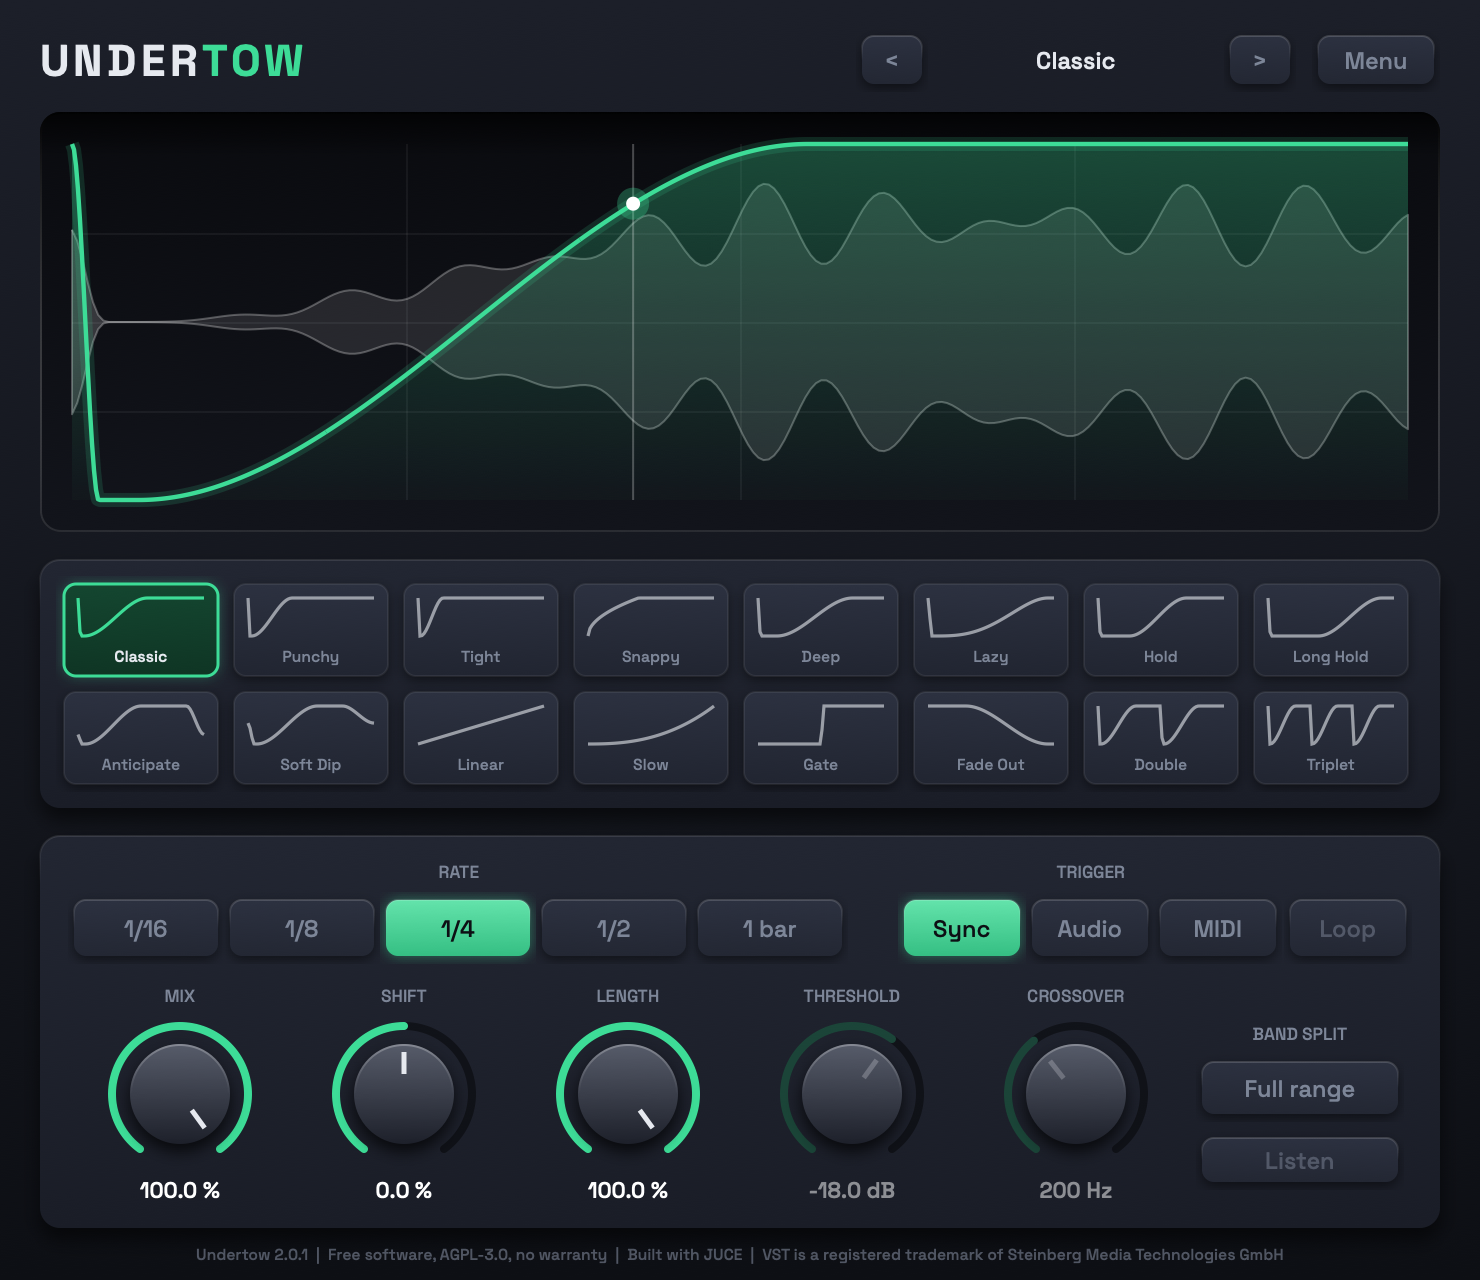
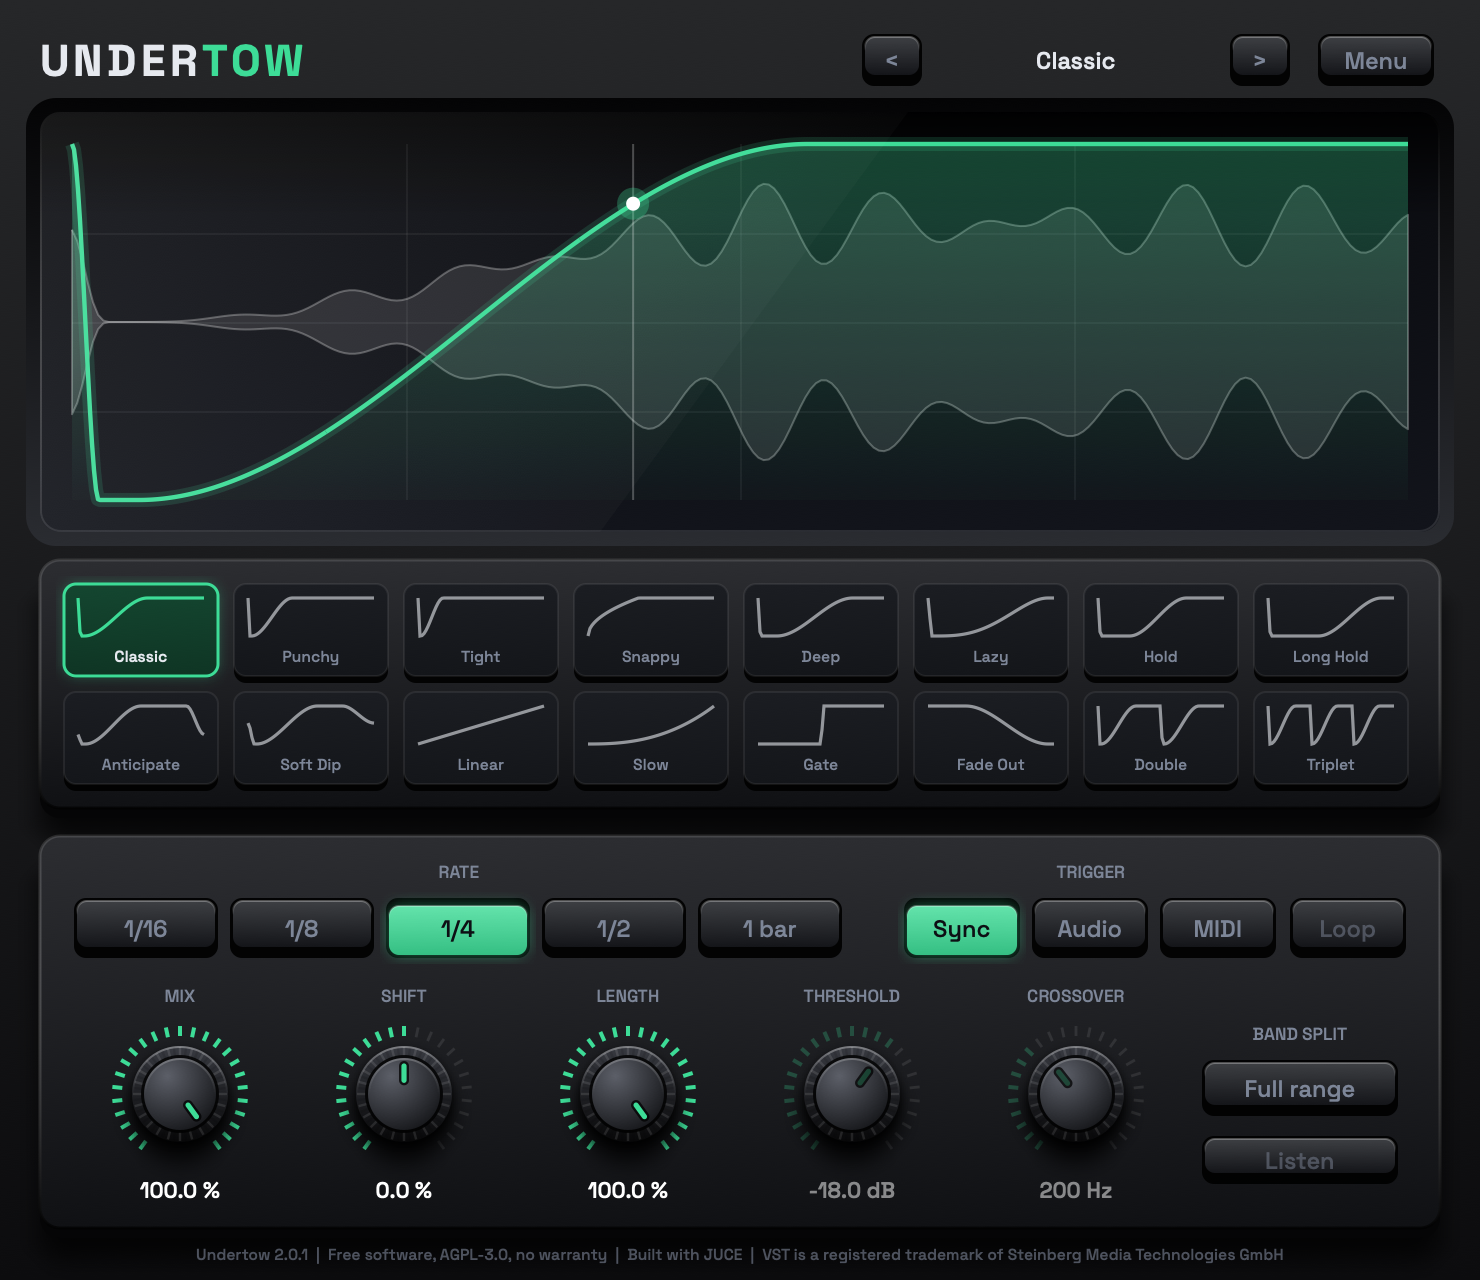
Undertow 2.0.1: realistic look, wordmark, smooth waveform, Windows uninstaller

diff --git a/Source/PluginProcessor.cpp b/Source/PluginProcessor.cpp
@@ -4,8 +4,9 @@
 
 namespace
 {
-const juce::Colour bgTop { 0xff1c1f29 }, bgBottom { 0xff0d0f14 }, card { 0xff222632 }, cardLow { 0xff1a1d27 },
-    raised { 0xff2c3140 }, raisedHover { 0xff363c4d }, screenTop { 0xff0a0b0f }, screenBottom { 0xff12141b },
+// The look: smooth black metal, machined knobs, keys with thickness, a display behind glass
+const juce::Colour panel { 0xff111214 }, slab { 0xff17191d }, keyFace { 0xff1b1d22 }, keyHover { 0xff26282e },
+    screenTop { 0xff0a0b0f }, screenBottom { 0xff12141b }, ink { 0xff0d0f14 },
     accent { 0xff3ddc97 }, text { 0xffe6e9ef }, dim { 0xff7d8698 };
 
 // Space Grotesk, bundled. Shared by everything that draws text and freed with the last editor.
@@ -28,45 +29,27 @@ void drawWordmark (juce::Graphics& g, const Fonts& fonts, juce::Rectangle<float>
     name.draw (g, area);
 }
 
-// The "Hardware" look: smooth black metal, machined knobs, a glass display. Off = the flat modern look.
-bool hardware = false;
-
-// Button and tile faces: lifted off the panel in the flat look, near-black in the hardware look
-juce::Colour face (bool hovered) { return hardware ? juce::Colour (hovered ? 0xff26282e : 0xff1b1d22) : hovered ? raisedHover : raised; }
-
 void drawMetal (juce::Graphics& g, juce::Rectangle<float> area, juce::Colour base)
 {
     g.setGradientFill ({ base.brighter (0.10f), 0.0f, area.getY(), base.darker (0.40f), 0.0f, area.getBottom(), false });
     g.fillRect (area);
 }
 
-const juce::DropShadow cardShadow { juce::Colours::black.withAlpha (0.55f), 16, { 0, 6 } };
-const juce::DropShadow smallShadow { juce::Colours::black.withAlpha (0.5f), 6, { 0, 2 } };
-
-// A raised surface: soft shadow underneath, gradient face, thin highlight along the top edge
+// A slab standing off the panel: long shadow, a front edge, a bevelled face
 void drawCard (juce::Graphics& g, juce::Rectangle<float> area, float radius = 10.0f)
 {
     juce::Path outline;
     outline.addRoundedRectangle (area, radius);
-    cardShadow.drawForPath (g, outline);
-    if (hardware)
+    juce::DropShadow (juce::Colours::black.withAlpha (0.75f), 30, { 0, 16 }).drawForPath (g, outline);
+    g.setColour (juce::Colour (0xff050506)); // front edge
+    g.fillRoundedRectangle (area.translated (0.0f, 5.0f), radius);
     {
-        juce::DropShadow (juce::Colours::black.withAlpha (0.75f), 30, { 0, 16 }).drawForPath (g, outline);
-        g.setColour (juce::Colour (0xff050506)); // the slab's front edge
-        g.fillRoundedRectangle (area.translated (0.0f, 5.0f), radius);
-        {
-            juce::Graphics::ScopedSaveState clip (g);
-            g.reduceClipRegion (outline);
-            drawMetal (g, area, juce::Colour (0xff17191d));
-        }
-        g.setGradientFill ({ juce::Colours::white.withAlpha (0.12f), 0.0f, area.getY(), juce::Colours::black.withAlpha (0.7f), 0.0f, area.getBottom(), false });
-        g.strokePath (outline, juce::PathStrokeType (1.5f)); // machined bevel
-        return;
+        juce::Graphics::ScopedSaveState clip (g);
+        g.reduceClipRegion (outline);
+        drawMetal (g, area, slab);
     }
-    g.setGradientFill ({ card, 0.0f, area.getY(), cardLow, 0.0f, area.getBottom(), false });
-    g.fillPath (outline);
-    g.setGradientFill ({ juce::Colours::white.withAlpha (0.10f), 0.0f, area.getY(), juce::Colours::transparentWhite, 0.0f, area.getY() + 24.0f, false });
-    g.strokePath (outline, juce::PathStrokeType (1.0f));
+    g.setGradientFill ({ juce::Colours::white.withAlpha (0.12f), 0.0f, area.getY(), juce::Colours::black.withAlpha (0.7f), 0.0f, area.getBottom(), false });
+    g.strokePath (outline, juce::PathStrokeType (1.5f)); // bevel
 }
 
 // The y of every x across `area` for a shape, as a path
@@ -91,11 +74,11 @@ struct UndertowLook : juce::LookAndFeel_V4
     {
         setColour (juce::Slider::textBoxTextColourId, text);
         setColour (juce::TextButton::textColourOffId, dim);
-        setColour (juce::TextButton::textColourOnId, bgBottom);
-        setColour (juce::PopupMenu::backgroundColourId, card);
+        setColour (juce::TextButton::textColourOnId, ink);
+        setColour (juce::PopupMenu::backgroundColourId, slab);
         setColour (juce::PopupMenu::textColourId, text);
         setColour (juce::PopupMenu::highlightedBackgroundColourId, accent);
-        setColour (juce::PopupMenu::highlightedTextColourId, bgBottom);
+        setColour (juce::PopupMenu::highlightedTextColourId, ink);
     }
 
     juce::SharedResourcePointer<Fonts> fonts;
@@ -103,46 +86,16 @@ struct UndertowLook : juce::LookAndFeel_V4
     juce::Font getLabelFont (juce::Label&) override { return juce::Font (fonts->get (14.0f)); }
     juce::Font getPopupMenuFont() override { return juce::Font (fonts->get (15.0f)); }
 
+    // A machined knob seen from straight above: a ring of ticks that light up to the value,
+    // a knurled grip and a domed cap. Its height comes from the shadow it casts and the light on its rim.
     void drawRotarySlider (juce::Graphics& g, int x, int y, int width, int height, float position,
                            float startAngle, float endAngle, juce::Slider& slider) override
     {
         const auto bounds = juce::Rectangle<int> (x, y, width, height).toFloat().reduced (5.0f);
         const float radius = juce::jmin (bounds.getWidth(), bounds.getHeight()) / 2.0f;
         const auto centre = bounds.getCentre();
-        const float angle = startAngle + position * (endAngle - startAngle);
         const float alpha = slider.isEnabled() ? 1.0f : 0.25f;
-        if (hardware)
-        {
-            drawMachinedKnob (g, centre, radius, position, startAngle, endAngle, alpha);
-            return;
-        }
-        const juce::PathStrokeType stroke (4.0f, juce::PathStrokeType::curved, juce::PathStrokeType::rounded);
 
-        juce::Path track, value;
-        track.addCentredArc (centre.x, centre.y, radius, radius, 0.0f, startAngle, endAngle, true);
-        value.addCentredArc (centre.x, centre.y, radius, radius, 0.0f, startAngle, angle, true);
-        g.setColour (juce::Colours::black.withAlpha (0.45f));
-        g.strokePath (track, stroke);
-        g.setColour (accent.withAlpha (alpha));
-        g.strokePath (value, stroke);
-
-        const float size = (radius - 9.0f) * 2.0f;
-        const auto face = juce::Rectangle<float> (size, size).withCentre (centre);
-        juce::Path cap;
-        cap.addEllipse (face);
-        juce::DropShadow (juce::Colours::black.withAlpha (0.7f), 10, { 0, 4 }).drawForPath (g, cap);
-        g.setGradientFill ({ raisedHover.brighter (0.2f), 0.0f, face.getY(), raised.darker (0.5f), 0.0f, face.getBottom(), false });
-        g.fillPath (cap);
-        g.setGradientFill ({ juce::Colours::white.withAlpha (0.28f), 0.0f, face.getY(), juce::Colours::transparentWhite, 0.0f, face.getCentreY(), false });
-        g.drawEllipse (face.reduced (0.5f), 1.0f);
-
-        g.setColour (text.withAlpha (alpha));
-        g.drawLine ({ centre.getPointOnCircumference (size * 0.2f, angle), centre.getPointOnCircumference (size * 0.5f - 4.0f, angle) }, 2.5f);
-    }
-
-    // A knurled aluminium knob with a ring of ticks that light up to the current value
-    static void drawMachinedKnob (juce::Graphics& g, juce::Point<float> centre, float radius, float position, float startAngle, float endAngle, float alpha)
-    {
         constexpr int ticks = 25;
         for (int i = 0; i < ticks; ++i)
         {
@@ -152,100 +105,61 @@ struct UndertowLook : juce::LookAndFeel_V4
             g.drawLine ({ centre.getPointOnCircumference (radius - 5.0f, angle), centre.getPointOnCircumference (radius, angle) }, lit ? 2.0f : 1.4f);
         }
 
-        const float outer = radius - 10.0f;
-        const auto skirt = juce::Rectangle<float> (outer * 2.0f, outer * 2.0f).withCentre (centre);
-        const float height = 8.0f; // how far the knob stands off the panel
-        juce::Path footprint;
-        footprint.addEllipse (skirt.translated (0.0f, height));
-        juce::DropShadow (juce::Colours::black.withAlpha (0.9f), 24, { 0, 16 }).drawForPath (g, footprint);
-        g.setGradientFill ({ juce::Colour (0xff24262a), skirt.getX(), 0.0f, juce::Colour (0xff060607), skirt.getRight(), 0.0f, false });
-        g.fillPath (footprint); // side wall: the base ellipse, joined up to the top face
-        g.fillRect (skirt.getX(), centre.y, skirt.getWidth(), height);
-        juce::Path skirtPath;
-        skirtPath.addEllipse (skirt);
-        g.setGradientFill ({ juce::Colour (0xff2a2c31), 0.0f, skirt.getY(), juce::Colour (0xff050506), 0.0f, skirt.getBottom(), false });
-        g.fillPath (skirtPath);
+        const float gripRadius = radius - 10.0f;
+        const auto grip = juce::Rectangle<float> (gripRadius * 2.0f, gripRadius * 2.0f).withCentre (centre);
+        juce::Path gripPath;
+        gripPath.addEllipse (grip);
+        juce::DropShadow (juce::Colours::black.withAlpha (0.85f), 20, { 0, 10 }).drawForPath (g, gripPath); // cast shadow
+        juce::DropShadow (juce::Colours::black.withAlpha (0.9f), 4, { 0, 2 }).drawForPath (g, gripPath);    // contact shadow
+        g.setGradientFill ({ juce::Colour (0xff383a41), 0.0f, grip.getY(), juce::Colour (0xff070708), 0.0f, grip.getBottom(), false });
+        g.fillPath (gripPath);
         for (int i = 0; i < 48; ++i) // knurling
         {
             const float angle = juce::MathConstants<float>::twoPi * (float) i / 48.0f;
             g.setColour ((i % 2 == 0 ? juce::Colours::white : juce::Colours::black).withAlpha (0.10f));
-            g.drawLine ({ centre.getPointOnCircumference (outer - 5.0f, angle), centre.getPointOnCircumference (outer - 0.5f, angle) }, 1.2f);
+            g.drawLine ({ centre.getPointOnCircumference (gripRadius - 5.0f, angle), centre.getPointOnCircumference (gripRadius - 0.5f, angle) }, 1.2f);
         }
+        g.setGradientFill ({ juce::Colours::white.withAlpha (0.34f), 0.0f, grip.getY(), juce::Colours::transparentWhite, 0.0f, grip.getCentreY(), false });
+        g.drawEllipse (grip.reduced (0.5f), 1.0f); // light catching the top rim
 
-        const float capRadius = outer - 6.0f;
+        const float capRadius = gripRadius - 6.0f;
         const auto cap = juce::Rectangle<float> (capRadius * 2.0f, capRadius * 2.0f).withCentre (centre);
-        g.setColour (juce::Colours::black.withAlpha (0.7f)); // the cap is raised off the knurled ring
-        g.fillEllipse (cap.translated (0.0f, 3.5f).expanded (1.0f));
-        g.setGradientFill ({ juce::Colour (0xff50535c), 0.0f, cap.getY(), juce::Colour (0xff101113), 0.0f, cap.getBottom(), false });
+        g.setColour (juce::Colours::black.withAlpha (0.8f)); // groove between grip and cap
+        g.fillEllipse (cap.expanded (1.5f));
+        g.setGradientFill (juce::ColourGradient (juce::Colour (0xff5c5f68), centre.x - capRadius * 0.35f, centre.y - capRadius * 0.5f,
+                                                 juce::Colour (0xff131417), centre.x + capRadius * 0.6f, centre.y + capRadius * 0.95f, true)); // domed, lit from above
         g.fillEllipse (cap);
-        {
-            juce::Graphics::ScopedSaveState clip (g); // spun-metal highlights
-            juce::Path capPath;
-            capPath.addEllipse (cap);
-            g.reduceClipRegion (capPath);
-            for (const float at : { -0.75f, 2.4f })
-            {
-                juce::Path wedge;
-                wedge.addPieSegment (cap.expanded (4.0f), at - 0.32f, at + 0.32f, 0.0f);
-                g.setGradientFill (juce::ColourGradient (juce::Colours::white.withAlpha (0.0f), centre.x, centre.y,
-                                                         juce::Colours::white.withAlpha (0.13f), centre.getPointOnCircumference (capRadius, at).x, centre.getPointOnCircumference (capRadius, at).y, true));
-                g.fillPath (wedge);
-            }
-        }
-        g.setColour (juce::Colours::black.withAlpha (0.55f));
-        g.drawEllipse (cap, 1.0f);
-        g.setColour (juce::Colours::white.withAlpha (0.16f));
-        g.drawEllipse (cap.reduced (1.0f), 0.6f);
+        g.setGradientFill ({ juce::Colours::white.withAlpha (0.24f), 0.0f, cap.getY(), juce::Colours::transparentWhite, 0.0f, cap.getCentreY(), false });
+        g.drawEllipse (cap.reduced (0.5f), 1.0f);
 
         const float angle = startAngle + position * (endAngle - startAngle);
-        const juce::Line<float> pointer (centre.getPointOnCircumference (capRadius * 0.30f, angle), centre.getPointOnCircumference (capRadius - 3.0f, angle));
-        g.setColour (juce::Colours::black.withAlpha (0.8f));
-        g.drawLine (pointer, 4.5f);
+        juce::Path pointer;
+        pointer.startNewSubPath (centre.getPointOnCircumference (capRadius * 0.38f, angle));
+        pointer.lineTo (centre.getPointOnCircumference (capRadius - 4.0f, angle));
+        g.setColour (juce::Colours::black.withAlpha (0.75f));
+        g.strokePath (pointer, juce::PathStrokeType (5.0f, juce::PathStrokeType::curved, juce::PathStrokeType::rounded));
         g.setColour (accent.withAlpha (alpha));
-        g.drawLine (pointer, 2.4f);
+        g.strokePath (pointer, juce::PathStrokeType (2.6f, juce::PathStrokeType::curved, juce::PathStrokeType::rounded));
     }
 
+    // A physical key in a well: it has thickness, and sits lower when lit or held
     void drawButtonBackground (juce::Graphics& g, juce::Button& button, const juce::Colour&, bool over, bool down) override
     {
         const bool on = button.getToggleState();
+        const auto well = button.getLocalBounds().toFloat().reduced (3.0f);
+        g.setColour (juce::Colours::black.withAlpha (0.92f));
+        g.fillRoundedRectangle (well, 6.0f);
 
-        if (hardware) // a physical key in a well: it has thickness, and sits lower when lit
-        {
-            const auto well = button.getLocalBounds().toFloat().reduced (3.0f);
-            g.setColour (juce::Colours::black.withAlpha (0.92f));
-            g.fillRoundedRectangle (well, 6.0f);
-
-            const auto top = on || down ? well.reduced (1.5f).withTrimmedTop (2.5f) : well.reduced (1.5f).withTrimmedBottom (4.0f);
-            juce::Path key;
-            key.addRoundedRectangle (top, 5.0f);
-            if (on)
-                juce::DropShadow (accent.withAlpha (0.5f), 10, {}).drawForPath (g, key);
-            const auto colour = on ? accent : face (over);
-            g.setGradientFill ({ colour.brighter (on ? 0.25f : 0.18f), 0.0f, top.getY(), colour.darker (on ? 0.15f : 0.35f), 0.0f, top.getBottom(), false });
-            g.fillPath (key);
-            g.setGradientFill ({ juce::Colours::white.withAlpha (0.30f), 0.0f, top.getY(), juce::Colours::transparentWhite, 0.0f, top.getY() + 7.0f, false });
-            g.strokePath (key, juce::PathStrokeType (1.0f));
-            return;
-        }
-
-        const auto area = button.getLocalBounds().toFloat().reduced (3.0f, 4.0f);
-        juce::Path outline;
-        outline.addRoundedRectangle (area, 6.0f);
+        const auto top = on || down ? well.reduced (1.5f).withTrimmedTop (2.5f) : well.reduced (1.5f).withTrimmedBottom (4.0f);
+        juce::Path key;
+        key.addRoundedRectangle (top, 5.0f);
         if (on)
-        {
-            juce::DropShadow (accent.withAlpha (0.45f), 8, {}).drawForPath (g, outline); // glow
-            g.setGradientFill ({ accent.brighter (0.25f), 0.0f, area.getY(), accent.darker (0.15f), 0.0f, area.getBottom(), false });
-        }
-        else
-        {
-            if (! down)
-                smallShadow.drawForPath (g, outline);
-            const auto top = face (over);
-            g.setGradientFill ({ top, 0.0f, area.getY(), top.darker (0.25f), 0.0f, area.getBottom(), false });
-        }
-        g.fillPath (outline);
-        g.setGradientFill ({ juce::Colours::white.withAlpha (0.16f), 0.0f, area.getY(), juce::Colours::transparentWhite, 0.0f, area.getCentreY(), false });
-        g.strokePath (outline, juce::PathStrokeType (1.0f));
+            juce::DropShadow (accent.withAlpha (0.5f), 10, {}).drawForPath (g, key);
+        const auto colour = on ? accent : over ? keyHover : keyFace;
+        g.setGradientFill ({ colour.brighter (on ? 0.25f : 0.18f), 0.0f, top.getY(), colour.darker (on ? 0.15f : 0.35f), 0.0f, top.getBottom(), false });
+        g.fillPath (key);
+        g.setGradientFill ({ juce::Colours::white.withAlpha (0.30f), 0.0f, top.getY(), juce::Colours::transparentWhite, 0.0f, top.getY() + 7.0f, false });
+        g.strokePath (key, juce::PathStrokeType (1.0f));
     }
 };
 
@@ -364,16 +278,11 @@ public:
             juce::Path outline;
             outline.addRoundedRectangle (area, 6.0f);
 
-            if (hardware) // tiles have thickness too
-            {
-                g.setColour (juce::Colours::black.withAlpha (0.9f));
-                g.fillRoundedRectangle (area.translated (0.0f, on ? 1.0f : 3.5f), 6.0f);
-            }
+            g.setColour (juce::Colours::black.withAlpha (0.9f)); // tiles have thickness, and sit lower when chosen
+            g.fillRoundedRectangle (area.translated (0.0f, on ? 1.0f : 3.5f), 6.0f);
             if (on)
                 juce::DropShadow (accent.withAlpha (0.35f), 8, {}).drawForPath (g, outline);
-            else
-                smallShadow.drawForPath (g, outline);
-            const auto top = on ? accent.withMultipliedBrightness (0.32f) : face (i == hovered);
+            const auto top = on ? accent.withMultipliedBrightness (0.32f) : i == hovered ? keyHover : keyFace;
             g.setGradientFill ({ top, 0.0f, area.getY(), top.darker (0.3f), 0.0f, area.getBottom(), false });
             g.fillPath (outline);
             g.setColour (on ? accent : juce::Colours::white.withAlpha (0.07f));
@@ -490,15 +399,7 @@ public:
 
     void paint (juce::Graphics& g) override
     {
-        if (hardware)
-        {
-            drawMetal (g, getLocalBounds().toFloat(), juce::Colour (0xff111214));
-        }
-        else
-        {
-            g.setGradientFill ({ bgTop, 0.0f, 0.0f, bgBottom, 0.0f, (float) getHeight(), false });
-            g.fillAll();
-        }
+        drawMetal (g, getLocalBounds().toFloat(), panel);
 
         drawWordmark (g, *fonts, { 20.0f, 16.0f, 200.0f, 28.0f });
 
@@ -564,21 +465,18 @@ private:
     void paintScreen (juce::Graphics& g)
     {
         const auto frame = screen.toFloat();
-        if (hardware) // a raised bezel around the glass
-        {
-            const auto bezel = frame.expanded (7.0f);
-            g.setGradientFill ({ juce::Colour (0xff040405), 0.0f, bezel.getY(), juce::Colour (0xff2a2c31), 0.0f, bezel.getBottom(), false });
-            g.fillRoundedRectangle (bezel, 15.0f);
-        }
+        const auto bezel = frame.expanded (7.0f); // a raised rim around the glass
+        g.setGradientFill ({ juce::Colour (0xff040405), 0.0f, bezel.getY(), juce::Colour (0xff2a2c31), 0.0f, bezel.getBottom(), false });
+        g.fillRoundedRectangle (bezel, 15.0f);
         g.setGradientFill ({ screenTop, 0.0f, frame.getY(), screenBottom, 0.0f, frame.getBottom(), false });
         g.fillRoundedRectangle (frame, 10.0f);
         {
-            juce::Graphics::ScopedSaveState clip (g); // inner shadow along the top edge
+            juce::Graphics::ScopedSaveState clip (g); // the glass sits deep: a long shadow falls from the top edge
             juce::Path outline;
             outline.addRoundedRectangle (frame, 10.0f);
             g.reduceClipRegion (outline);
-            const float depth = hardware ? 52.0f : 22.0f;
-            g.setGradientFill ({ juce::Colours::black.withAlpha (hardware ? 0.9f : 0.7f), 0.0f, frame.getY(), juce::Colours::transparentBlack, 0.0f, frame.getY() + depth, false });
+            const float depth = 52.0f;
+            g.setGradientFill ({ juce::Colours::black.withAlpha (0.9f), 0.0f, frame.getY(), juce::Colours::transparentBlack, 0.0f, frame.getY() + depth, false });
             g.fillRect (frame.withHeight (depth));
         }
         g.setGradientFill ({ juce::Colours::black.withAlpha (0.6f), 0.0f, frame.getY(), juce::Colours::white.withAlpha (0.10f), 0.0f, frame.getBottom(), false });
@@ -634,8 +532,7 @@ private:
         g.setColour (accent);
         g.strokePath (curve, juce::PathStrokeType (2.2f, joint));
 
-        if (hardware) // glare across the glass
-        {
+        {   // glare across the glass
             juce::Graphics::ScopedSaveState clip (g);
             juce::Path glass;
             glass.addRoundedRectangle (frame, 10.0f);

diff --git a/README.md b/README.md
@@ -82,10 +82,8 @@ Sync is all most tracks need. If your kick pattern isn't a steady beat, let the 
 
 ## Removing it
 
-Delete `Undertow.vst3` from:
-
-- Windows: `C:\Program Files\Common Files\VST3\`
-- Mac: `/Library/Audio/Plug-Ins/VST3/`
+- **Windows:** open Settings → Apps → Installed apps, find Undertow and choose Uninstall.
+- **Mac:** delete `Undertow.vst3` from `/Library/Audio/Plug-Ins/VST3/`.
 
 ## Privacy
 
